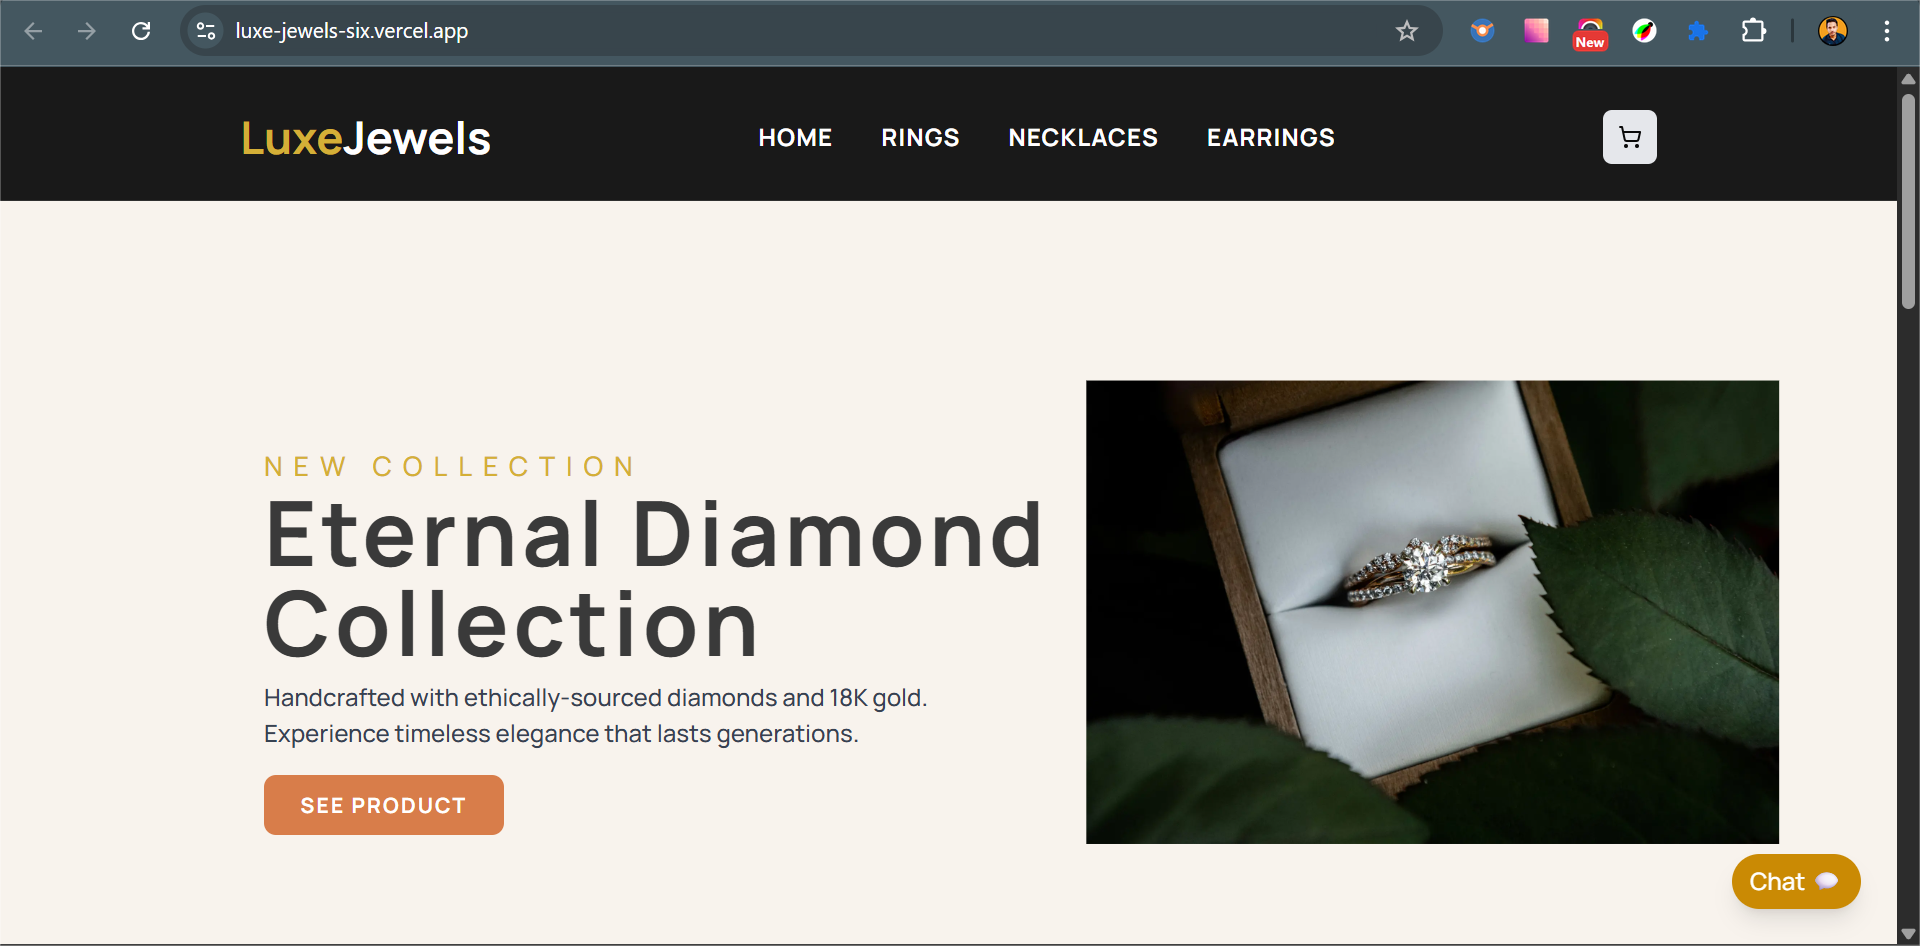
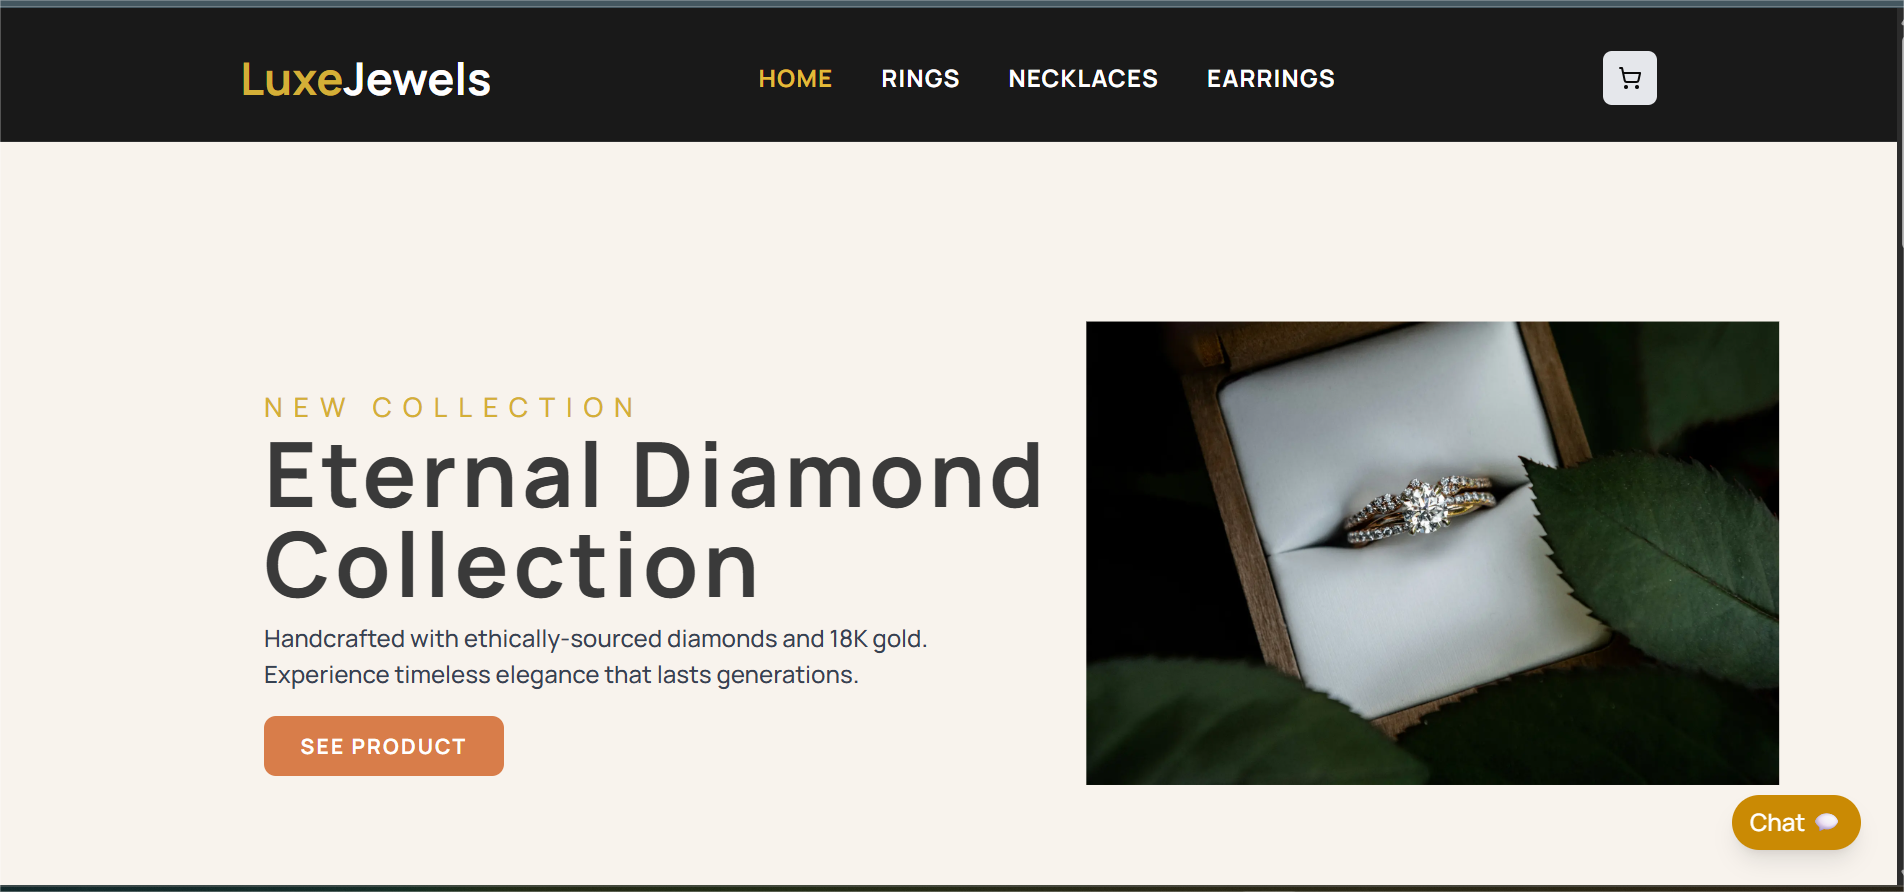
update active hovering effect in nav-menus, added images in readme for documentation

Changed region(s): [[0.0, 0.0, 1.0, 1.0]]

diff --git a/components/Navbar.tsx b/components/Navbar.tsx
@@ -4,6 +4,7 @@ import React from "react";
 import Link from "next/link";
 import { usePathname } from "next/navigation";
 import { CartDropdown } from "./CartDropdown";
+import { motion } from "framer-motion";
 
 const Navbar = () => {
   const pathname = usePathname();
@@ -23,20 +24,37 @@ const Navbar = () => {
         </h1>
       </Link>
 
-      <div className="hidden md:flex gap-8 flex-1 justify-center items-center">
-        {menuItems.map((item) => (
-          <Link
-            href={item.path}
-            key={item.name}
-            className={`text-white hover:text-[#bca146] transition-colors text-base font-semibold uppercase tracking-wider ${
-              pathname === item.path ? "text-[#e2bb39]" : ""
-            }`}
-          >
-            {item.name}
-          </Link>
-        ))}
-      </div>
+      <nav className="hidden md:flex gap-8 flex-1 justify-center items-center">
+        {menuItems.map((item) => {
+          const isActive = pathname === item.path;
+          return (
+            <Link
+              href={item.path}
+              key={item.name}
+              className="relative text-base font-semibold uppercase tracking-wider"
+            >
+              <span
+                className={`relative z-10 ${
+                  isActive
+                    ? "text-[#e2bb39]"
+                    : "text-white hover:text-[#d4af37]"
+                }`}
+              >
+                {item.name}
+              </span>
 
+              {isActive && (
+                <motion.span
+                  layoutId="activeNavItem"
+                  className="absolute bg-[#d4af37]/10 rounded-md"
+                  initial={false}
+                  transition={{ type: "spring", stiffness: 300, damping: 30 }}
+                />
+              )}
+            </Link>
+          );
+        })}
+      </nav>
       <CartDropdown />
     </>
   );

diff --git a/app/layout.tsx b/app/layout.tsx
@@ -18,9 +18,9 @@ export default function RootLayout({
       <body>
         <link rel="icon" href="favicon.svg" type="image/svg+xml" />
         <CartProvider>
-          <div className="flex relative top-0 bg-[#191919] z-[20] w-full gap-4 justify-between items-center sm:px-20 lg:px-40 md:pt-[1.8rem] p-6 border-b border-gray-100 border-opacity-10">
+          <header className="flex relative top-0 bg-[#191919] z-[20] w-full gap-4 justify-between items-center sm:px-20 lg:px-40 md:pt-[1.8rem] p-6 border-b border-gray-100 border-opacity-10">
             <Navbar />
-          </div>
+          </header>
           {children}
         </CartProvider>
       </body>

diff --git a/README.md b/README.md
@@ -25,9 +25,13 @@ Users can:
 
 ## Screenshots
 
-![Homepage](/public/package/Homepage.png)
-![Product Page](/public/screenshots/product.png)
-![AI Chatbot](/public/screenshots/chatbot.png)
+![Homepage](/public/package/homepage.png)
+![Product Page](/public/package/product.png)
+![AI Chatbot](/public/package/chatbot.png)
+![Product Details Page](/public/package/product-details.png)
+![Checkout Cart drop down](/public/package/checkout-cart.png)
+![Billing Page](/public/package/billing-page.png)
+![Order Success Page](/public/package/order-success.png)
 
 ## Tech Stack 🛠
 
